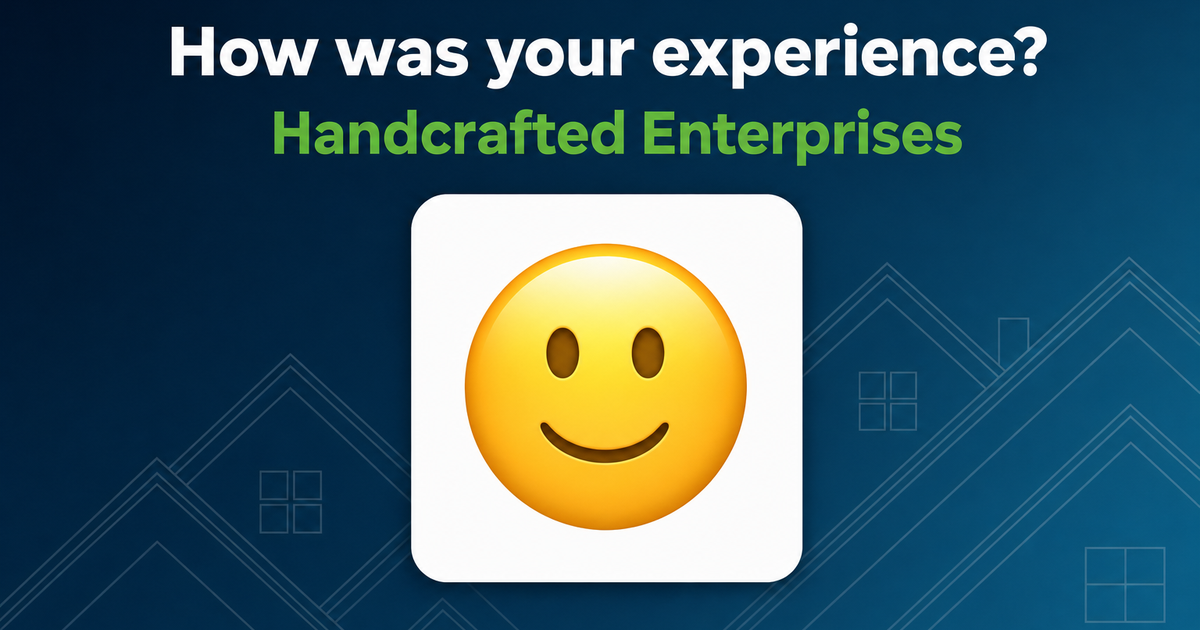
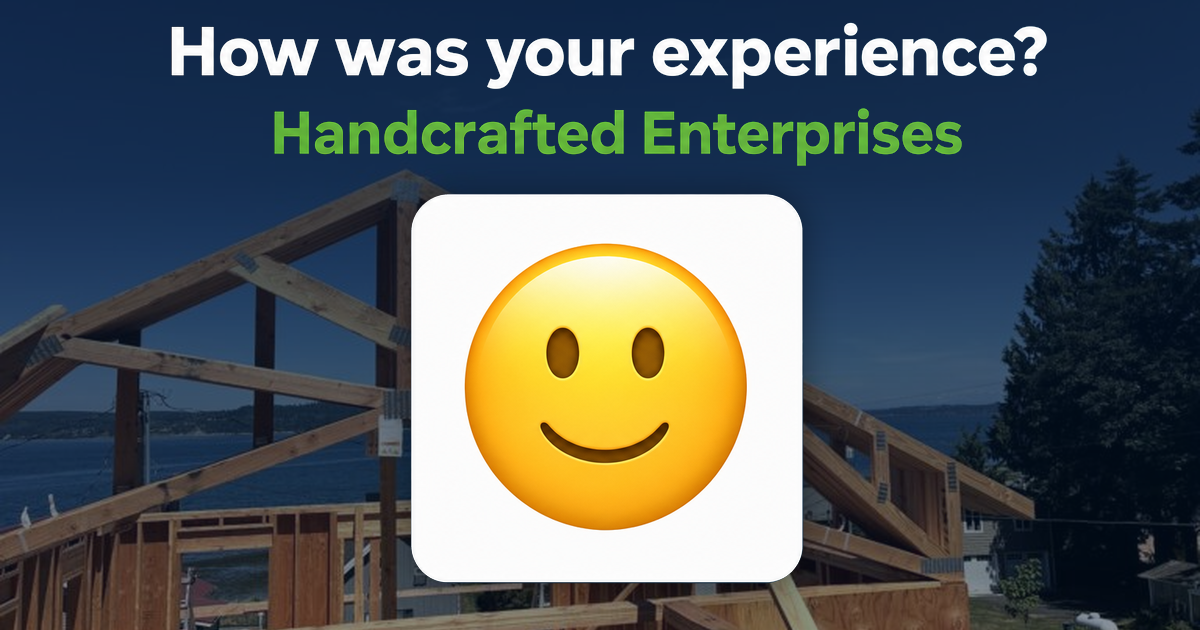
Add project photo to review link preview image

diff --git a/index.html b/index.html
@@ -12,14 +12,14 @@
   <meta property="og:url" content="https://reviews.handcraftedenterprises.com/">
   <meta property="og:title" content="How was your experience with Handcrafted Enterprises?">
   <meta property="og:description" content="Tell us how we did — leave a quick review on Google or Facebook.">
-  <meta property="og:image" content="https://reviews.handcraftedenterprises.com/og-image.png">
+  <meta property="og:image" content="https://reviews.handcraftedenterprises.com/og-image.png?v=b0509881805e">
   <meta property="og:image:width" content="1200">
   <meta property="og:image:height" content="630">
   <meta property="og:image:alt" content="Rate your experience with Handcrafted Enterprises">
   <meta name="twitter:card" content="summary_large_image">
   <meta name="twitter:title" content="How was your experience with Handcrafted Enterprises?">
   <meta name="twitter:description" content="Tell us how we did — leave a quick review on Google or Facebook.">
-  <meta name="twitter:image" content="https://reviews.handcraftedenterprises.com/og-image.png">
+  <meta name="twitter:image" content="https://reviews.handcraftedenterprises.com/og-image.png?v=b0509881805e">
 
   <link rel="preconnect" href="https://fonts.googleapis.com">
   <link rel="preconnect" href="https://fonts.gstatic.com" crossorigin>
